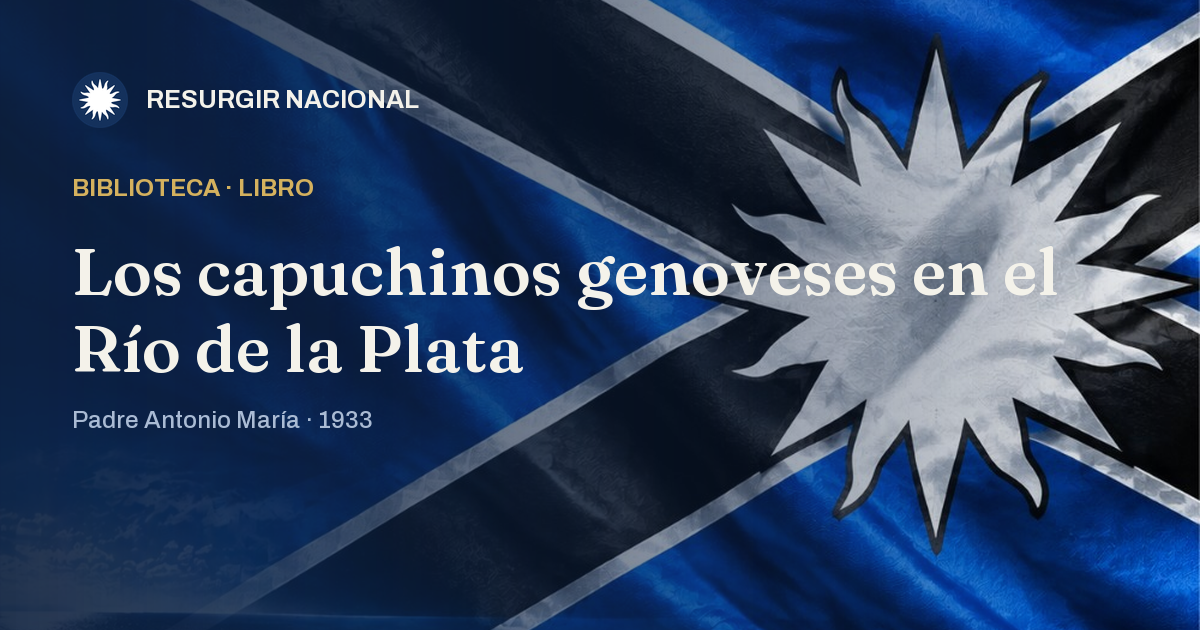
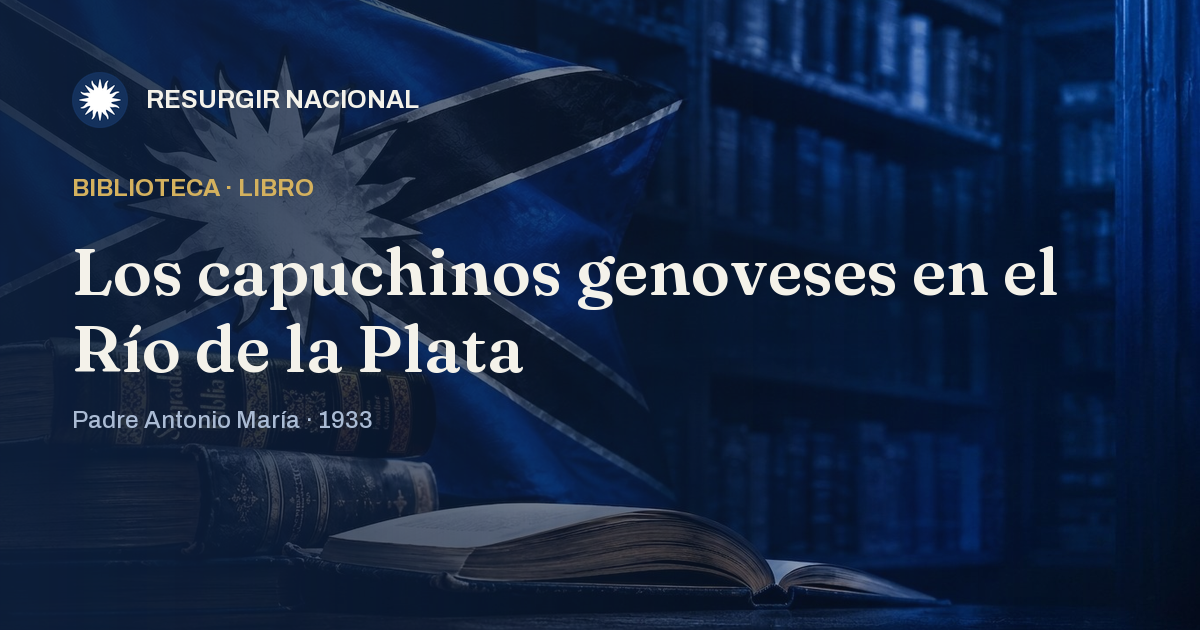
Usar fondo dedicado para las miniaturas de libros de Biblioteca
Cada pagina de libro generaba su og:image reutilizando el mismo
fondo (bandera) que los articulos de Formacion. Ahora usa un fondo
propio (estanteria + bandera) con el titulo real del libro
superpuesto, igual que se hace con los articulos.

diff --git a/scripts/og_image.py b/scripts/og_image.py
@@ -22,6 +22,7 @@ ROOT = os.path.dirname(os.path.dirname(os.path.abspath(__file__)))
 FONTS = os.path.join(os.path.dirname(os.path.abspath(__file__)), "fonts")
 EMBLEM = os.path.join(ROOT, "favicon-192.png")
 BACKGROUND = os.path.join(os.path.dirname(os.path.abspath(__file__)), "assets", "fondo-minia.jpg")
+BACKGROUND_BIBLIOTECA = os.path.join(os.path.dirname(os.path.abspath(__file__)), "assets", "fondo-biblioteca.jpg")
 
 W, H = 1200, 630
 PAD = 72
@@ -109,18 +110,18 @@ def _left_scrim(w, h, color=(13, 32, 62), start_alpha=232, end_alpha=10):
     return row.resize((w, h))
 
 
-def _background(w, h):
-    if os.path.exists(BACKGROUND):
-        bg = _cover(Image.open(BACKGROUND).convert("RGB"), w, h).convert("RGBA")
+def _background(w, h, background=BACKGROUND):
+    if background and os.path.exists(background):
+        bg = _cover(Image.open(background).convert("RGB"), w, h).convert("RGBA")
     else:
         bg = _vertical_gradient(w, h, [(0.0, NAVY_TOP), (0.5, NAVY_MID), (1.0, NAVY_BOTTOM)]).convert("RGBA")
     bg.alpha_composite(_left_scrim(w, h))
     return bg
 
 
-def make_og_image(kicker, title, byline, out_path):
+def make_og_image(kicker, title, byline, out_path, background=BACKGROUND):
     """kicker: p.ej. 'Formacion . Articulo'. title/byline: texto plano."""
-    img = _background(W, H)
+    img = _background(W, H, background)
 
     draw = ImageDraw.Draw(img)
 

diff --git a/scripts/render_biblioteca.py b/scripts/render_biblioteca.py
@@ -94,7 +94,8 @@ def write_og_image(b):
     """Genera og/libro-<slug>.png con el titulo real del libro (si cambio)."""
     out = os.path.join(OG_DIR, og_name(b["slug"]))
     tmp = out + ".tmp"
-    og_image.make_og_image("Biblioteca · Libro", b["title"], meta_line(b), tmp)
+    og_image.make_og_image("Biblioteca · Libro", b["title"], meta_line(b), tmp,
+                            background=og_image.BACKGROUND_BIBLIOTECA)
     with open(_lp(tmp), "rb") as f:
         new = f.read()
     old = None
